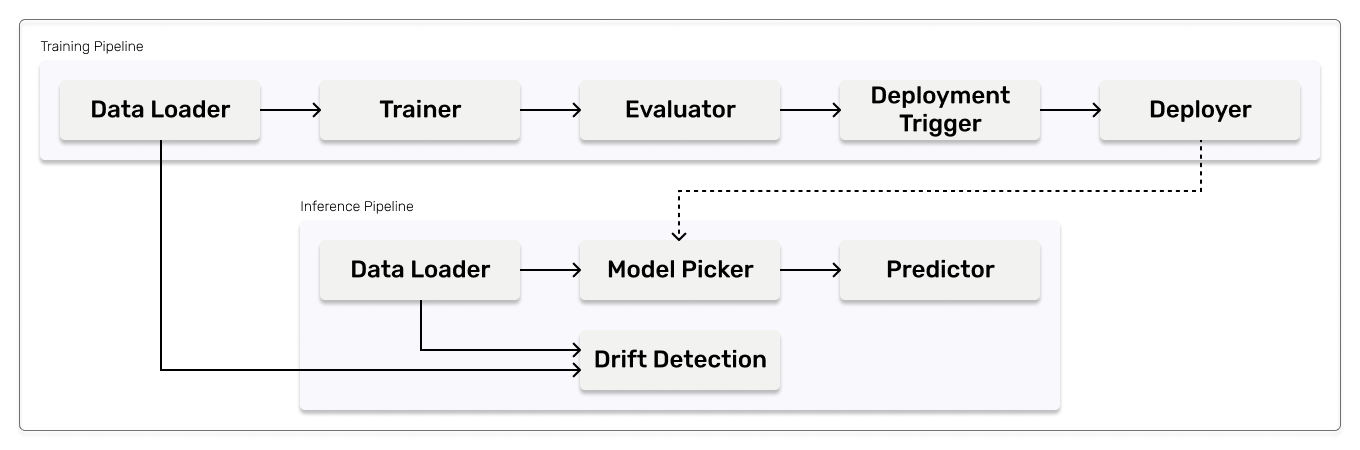
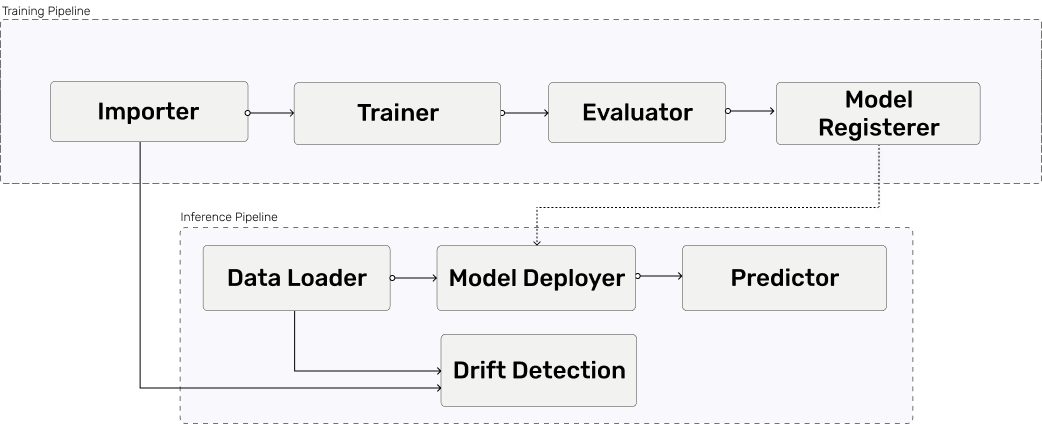
update quickstart

diff --git a/examples/quickstart/run.py b/examples/quickstart/run.py
@@ -18,16 +18,23 @@ from steps import (
     drift_detector,
     evaluator,
     inference_data_loader,
-    prediction_service_loader,
     predictor,
     svc_trainer_mlflow,
     training_data_loader,
 )
 
 from zenml.integrations.evidently.visualizers import EvidentlyVisualizer
-from zenml.integrations.mlflow.steps.mlflow_deployer import MLFlowDeployerParameters, mlflow_model_registry_deployer_step
-from zenml.integrations.mlflow.steps.mlflow_registry import MLFlowRegistryParameters, mlflow_register_model_step
-from zenml.model_registries.base_model_registry import ModelRegistryModelMetadata
+from zenml.integrations.mlflow.steps.mlflow_deployer import (
+    MLFlowDeployerParameters,
+    mlflow_model_registry_deployer_step,
+)
+from zenml.integrations.mlflow.steps.mlflow_registry import (
+    MLFlowRegistryParameters,
+    mlflow_register_model_step,
+)
+from zenml.model_registries.base_model_registry import (
+    ModelRegistryModelMetadata,
+)
 
 
 def main():
@@ -38,14 +45,12 @@ def main():
         trainer=svc_trainer_mlflow(),
         evaluator=evaluator(),
         model_register=mlflow_register_model_step(
-                params=MLFlowRegistryParameters(
-                    name="tensorflow-mnist-model",
-                    metadata=ModelRegistryModelMetadata(
-                        gamma=0.01, arch="svc"
-                    ),
-                    description=f"The first run of the Quickstart pipeline.",
-                )
-            ),
+            params=MLFlowRegistryParameters(
+                name="tensorflow-mnist-model",
+                metadata=ModelRegistryModelMetadata(gamma=0.01, arch="svc"),
+                description=f"The first run of the Quickstart pipeline.",
+            )
+        ),
     )
     training_pipeline_instance.run()
 

diff --git a/examples/quickstart/pipelines/training_pipeline.py b/examples/quickstart/pipelines/training_pipeline.py
@@ -25,5 +25,5 @@ def training_pipeline(
     """Train, evaluate, and deploy a model."""
     X_train, X_test, y_train, y_test = training_data_loader()
     model = trainer(X_train=X_train, y_train=y_train)
-    test_acc = evaluator(X_test=X_test, y_test=y_test, model=model)
+    evaluator(X_test=X_test, y_test=y_test, model=model)
     model_register(model)

diff --git a/examples/quickstart/README.md b/examples/quickstart/README.md
@@ -68,15 +68,13 @@ def training_pipeline(
     training_data_loader,
     trainer,
     evaluator,
-    deployment_trigger,
-    model_deployer,
+    model_register,
 ):
     """Train, evaluate, and deploy a model."""
     X_train, X_test, y_train, y_test = training_data_loader()
     model = trainer(X_train=X_train, y_train=y_train)
     test_acc = evaluator(X_test=X_test, y_test=y_test, model=model)
-    deployment_decision = deployment_trigger(test_acc)
-    model_deployer(deployment_decision, model)
+    model_register(model)
 ```
 
 #### Stacks & Stack Components
@@ -150,12 +148,15 @@ zenml up
 zenml data-validator register evidently_data_validator --flavor=evidently
 zenml experiment-tracker register mlflow_tracker --flavor=mlflow
 zenml model-deployer register mlflow_deployer --flavor=mlflow
+!zenml model-registry register mlflow_registry --flavor=mlflow
+
 
 # Register a new stack with the new stack components
 zenml stack register quickstart_stack -a default\
                                       -o default\
                                       -d mlflow_deployer\
                                       -e mlflow_tracker\
+                                      -r mlflow_registry\
                                       -dv evidently_data_validator\
                                       --set
 
